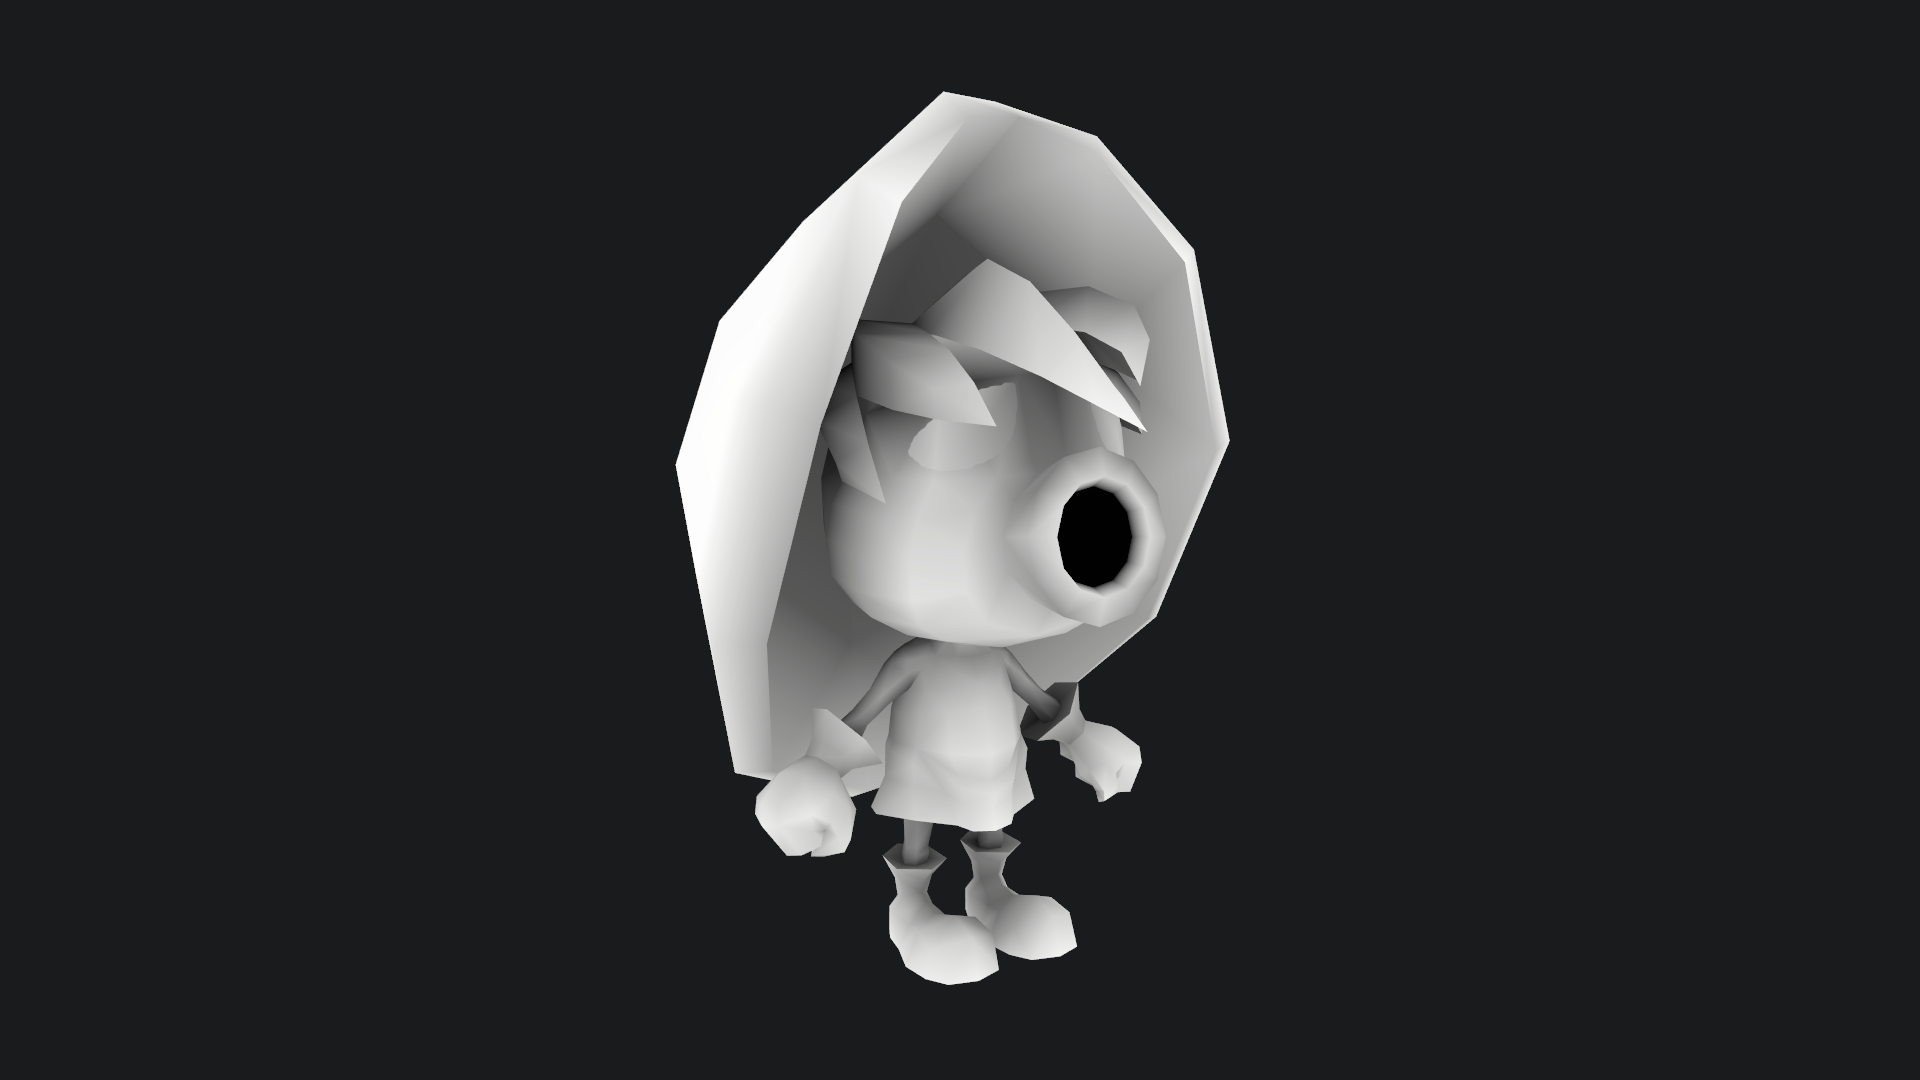
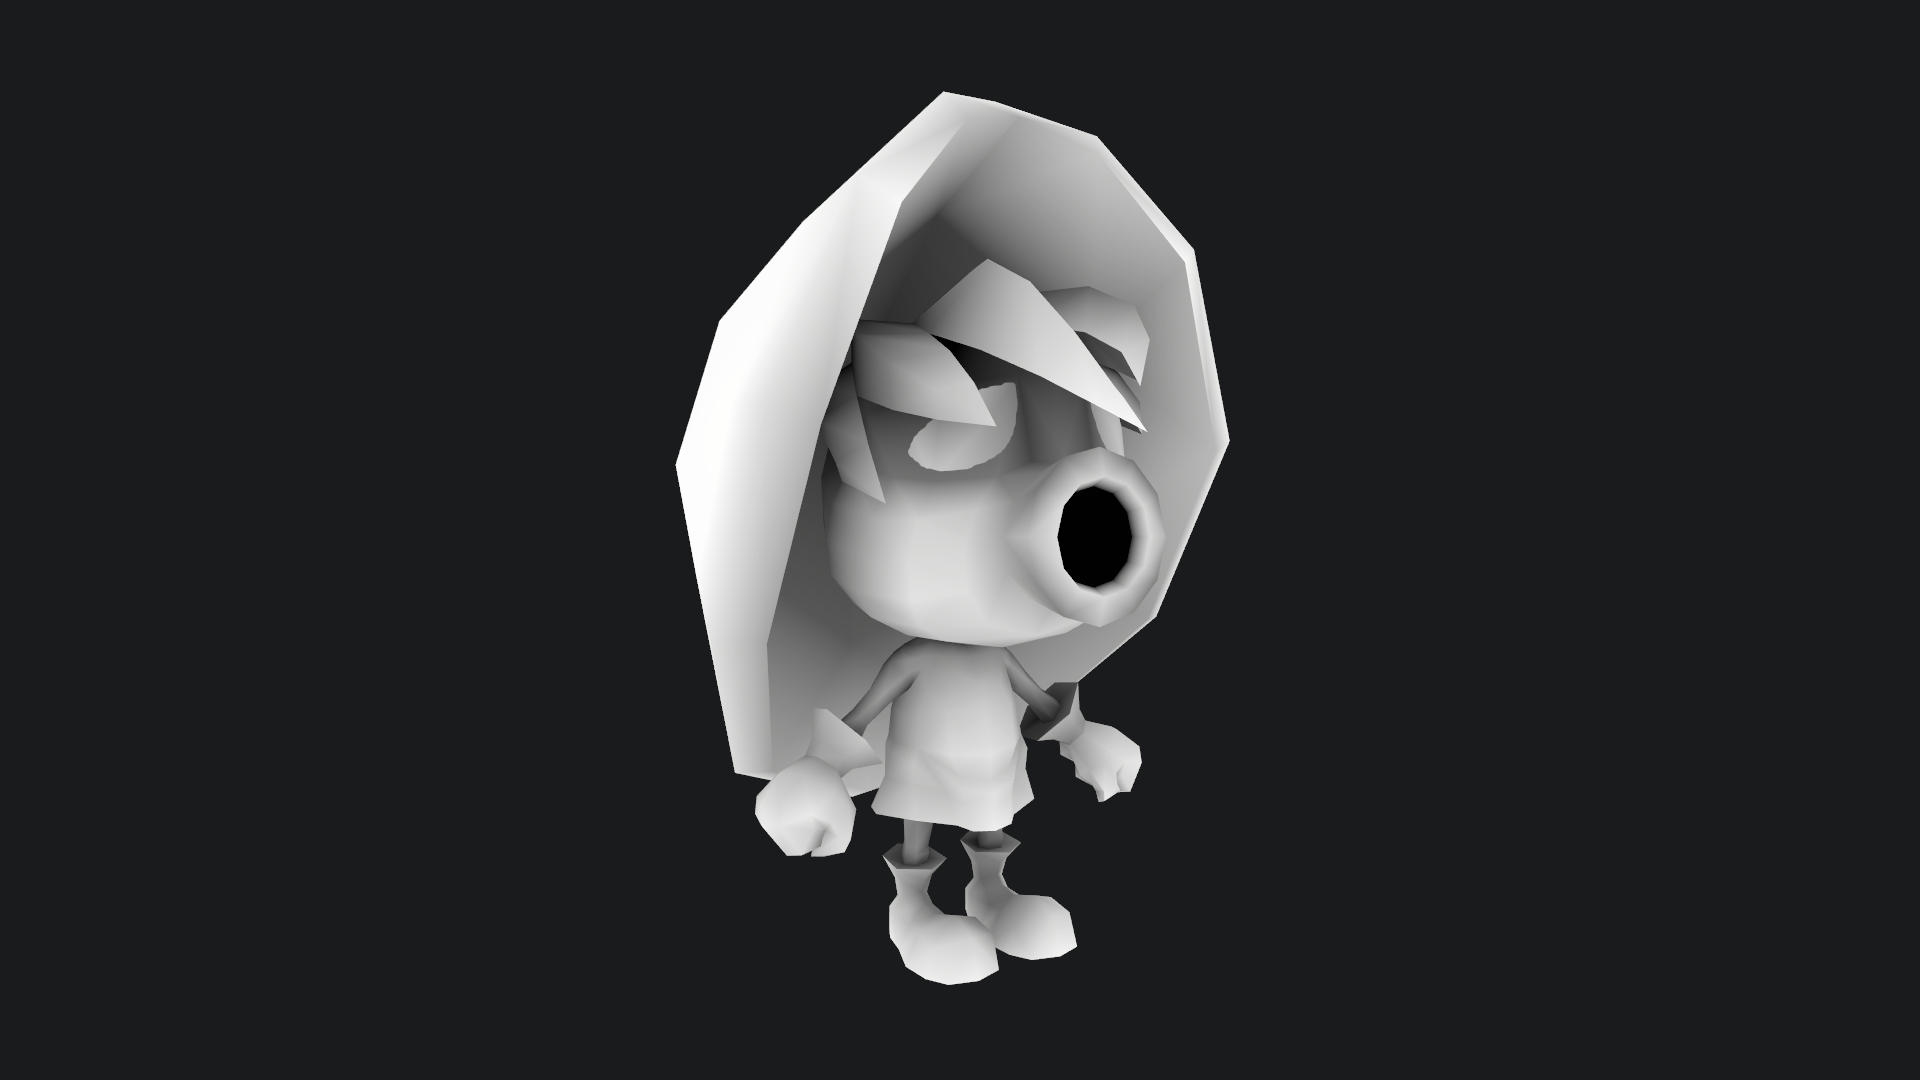
Some results

Changed region(s): [[0.4375, 0.3056, 0.5938, 0.4889]]

diff --git a/Articles/VertexAO/VertexAO.html b/Articles/VertexAO/VertexAO.html
@@ -34,18 +34,24 @@
 
 <ul>
     <li>Normal offset: Easy enough, by displacing the rays origin a bit along the normal, it stops being coplanar with its own triangle.</li>
-    <li>Tangent offset: This is where things get a bit more complicated. Calculating a tangent to the vector is straightforward, but if we 
-    just moved towards any vector perpendicular to the normal, we could potentially end up outside the original triangle!</li>
+    <li>
+        Tangent offset: This is where things get a bit more complicated. Calculating a tangent to the vector is straightforward, but if we
+        just moved towards any vector perpendicular to the normal, we could potentially end up outside the original triangle!
+    </li>
 </ul>
 
-<p>What we need is to find a tangent direction along the triangle, and to make sure that the rays origin does not end up outside the original 
-    triangle while doing so.</p>
+<p>
+    What we need is to find a tangent direction along the triangle, and to make sure that the rays origin does not end up outside the original
+    triangle while doing so.
+</p>
 
 <ul>
     <li>1: Calculate the bisector vector that splits the triangle in two triangles with equal angles at each side.</li>
     <li>2: Calculate the intersection between the bisector vector and the line defined by the other two vertices of the current vertex triangle.</li>
-    <li>3: Move along the bisector vector a certain distance. If it exceeds the calculated intersection, use the intersection to prevent stepping out 
-    of the triangle.</li>
+    <li>
+        3: Move along the bisector vector a certain distance. If it exceeds the calculated intersection, use the intersection to prevent stepping out
+        of the triangle.
+    </li>
 </ul>
 
 <div data-image='{
@@ -55,7 +61,7 @@
 }'></div>
 
 <p>
-    This allows us to effectively raycast from an origin with a normal and tangent offset. However, a vertex may belong to more than one triangle, so I came up with a 
+    This allows us to effectively raycast from an origin with a normal and tangent offset. However, a vertex may belong to more than one triangle, so I came up with a
     way to use all those triangles to calculate occlusion:
 </p>
 
@@ -87,10 +93,14 @@
     , "texts" : ["Rounded shapes"]
 }'></div>
 
+
+
+<h3>Results</h3>
+
 <p>With this working as intended, let's move on to more complicated meshes, such as characters.</p>
 
 <div data-image='{
-    "images": ["Articles/VertexAO/Images/VertexAO_004_DekuLink_AO.png"]
+    "images": ["Articles/VertexAO/Images/VertexAO_CharactersAO.png"]
     , "maximizable": true
     , "texts" : ["Character Occlusion"]
 }'></div>
@@ -102,7 +112,44 @@
     , "maximizable": true
 }'></div>
 
-<h3>Results</h3>
+<div data-image='{
+    "images": ["Articles/VertexAO/Images/VertexAO_012_Link_Base.png", "Articles/VertexAO/Images/VertexAO_013_Link_Final.png"]
+    , "texts": ["AO Off", "AO On"]
+    , "sliderValue": 50
+    , "maximizable": true
+}'></div>
+
+<p>
+    Alright, so characters can have proper occlusion, but what about environments? This is an even more important part because
+    character AO can easily be painted by an artist but painting an entire scene's ambient occlusion is much more complex. Thus, this
+    is where this algorithm can better utilized.
+</p>
+
+<div data-image='{
+    "images": ["Articles/VertexAO/Images/VertexAO_014_MilkBar_AO.png"]
+    , "maximizable": true
+    , "texts" : ["Environment Occlusion 1"]
+}'></div>
+
+<div data-image='{
+    "images": ["Articles/VertexAO/Images/VertexAO_015_MilkBar_Base.png", "Articles/VertexAO/Images/VertexAO_016_MilkBar_Final.png"]
+    , "texts": ["AO Off", "AO On"]
+    , "sliderValue": 50
+    , "maximizable": true
+}'></div>
+
+<div data-image='{
+    "images": ["Articles/VertexAO/Images/VertexAO_018_CuriosityShop_AO.png"]
+    , "maximizable": true
+    , "texts" : ["Environment Occlusion 2"]
+}'></div>
+
+<div data-image='{
+    "images": ["Articles/VertexAO/Images/VertexAO_019_CuriosityShop_Base.png", "Articles/VertexAO/Images/VertexAO_021_CuriosityShop_Final.png"]
+    , "texts": ["AO Off", "AO On"]
+    , "sliderValue": 50
+    , "maximizable": true
+}'></div>
 
 <h3>Conclusion</h3>
 
